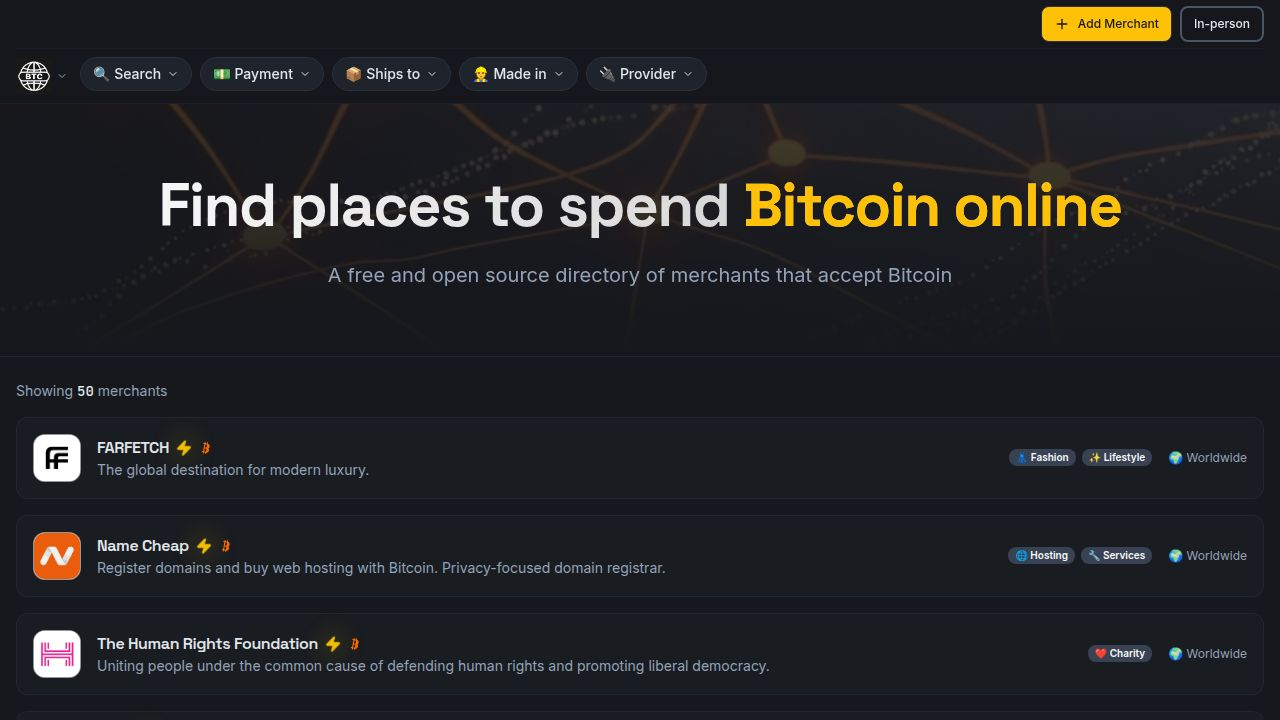
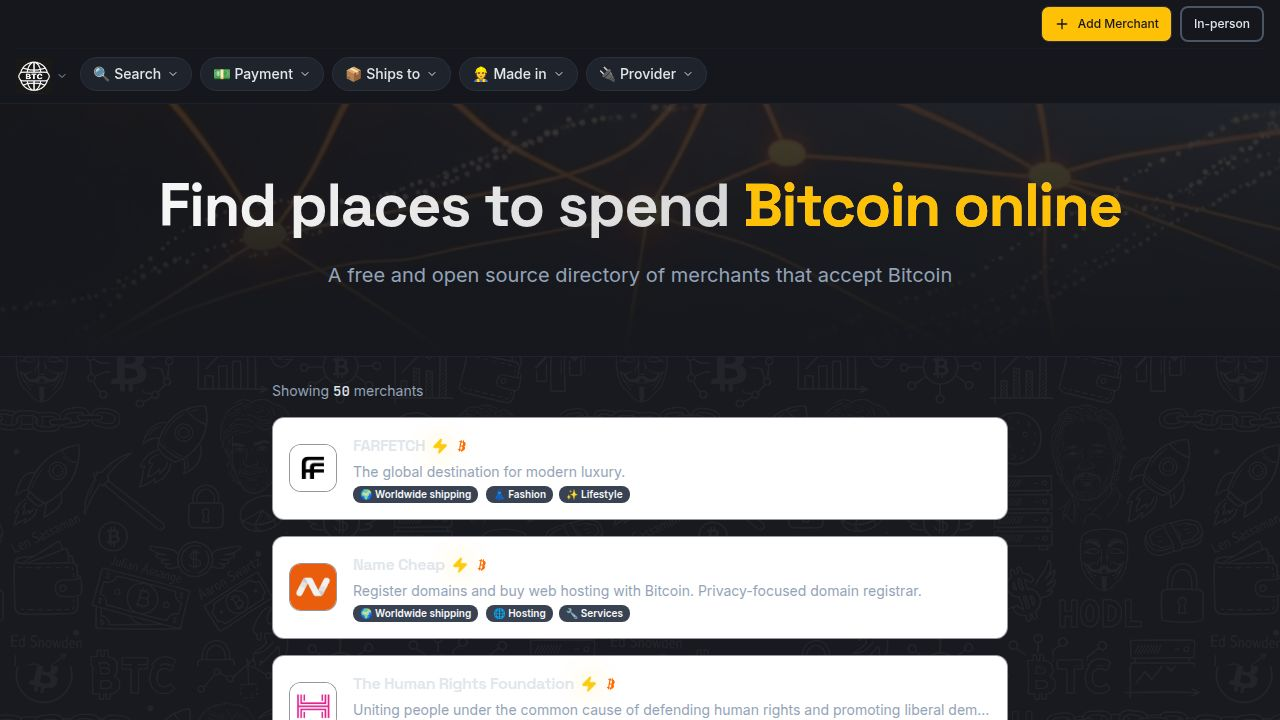
Make the usable area smaller on desktop like remoteok.com
Constrain the main content area to a maximum width of 3xl on desktop, while maintaining the full-width background image.

Replit-Commit-Author: Agent
Replit-Commit-Session-Id: 9fe8f121-51ca-4c76-90ea-bd0d1123d7ac
Replit-Commit-Checkpoint-Type: full_checkpoint
Replit-Commit-Event-Id: c55ac0af-c31d-4982-b462-2917895a7dc4
Replit-Commit-Screenshot-Url: https://storage.googleapis.com/screenshot-production-us-central1/836d56c9-18a9-46ad-9972-6a9fa87541a8/9fe8f121-51ca-4c76-90ea-bd0d1123d7ac/fRX957m
Replit-Helium-Checkpoint-Created: true

diff --git a/client/src/pages/home.tsx b/client/src/pages/home.tsx
@@ -136,39 +136,41 @@ export default function Home() {
         </div>
       </div>
 
-      <main className="container px-4 py-6 flex-1 relative" style={{ backgroundImage: `url(${btcBgImage})`, backgroundSize: '600px', backgroundRepeat: 'repeat', backgroundPosition: 'center' }}>
+      <main className="flex-1 relative" style={{ backgroundImage: `url(${btcBgImage})`, backgroundSize: '600px', backgroundRepeat: 'repeat', backgroundPosition: 'center' }}>
         <div className="absolute inset-0 bg-background/90 dark:bg-background/95" />
-        <div className="relative z-10 mb-4 flex items-center justify-between">
-          <p className="text-sm text-muted-foreground">
-            Showing <span className="font-mono text-foreground font-medium">{filteredMerchants.length}</span> merchants
-          </p>
-        </div>
+        <div className="relative z-10 max-w-3xl mx-auto px-4 py-6">
+          <div className="mb-4 flex items-center justify-between">
+            <p className="text-sm text-muted-foreground">
+              Showing <span className="font-mono text-foreground font-medium">{filteredMerchants.length}</span> merchants
+            </p>
+          </div>
 
-        {loading ? (
-          <div className="relative z-10 text-center py-20">
-            <p className="text-muted-foreground text-lg">Loading merchants...</p>
-          </div>
-        ) : filteredMerchants.length > 0 ? (
-          <div className="relative z-10 flex flex-col gap-4">
-            {filteredMerchants.map((merchant, index) => (
-              <motion.div
-                key={merchant.id}
-                initial={{ opacity: 0, y: 10 }}
-                animate={{ opacity: 1, y: 0 }}
-                transition={{ duration: 0.3, delay: index * 0.05 }}
-              >
-                <MerchantCard merchant={merchant} />
-              </motion.div>
-            ))}
-          </div>
-        ) : (
-          <div className="relative z-10 text-center py-20 border border-dashed border-border rounded-lg bg-card/20">
-            <p className="text-muted-foreground text-lg">No merchants found.</p>
-            <button onClick={clearFilters} className="mt-4 text-primary hover:underline">
-              Clear all filters
-            </button>
-          </div>
-        )}
+          {loading ? (
+            <div className="text-center py-20">
+              <p className="text-muted-foreground text-lg">Loading merchants...</p>
+            </div>
+          ) : filteredMerchants.length > 0 ? (
+            <div className="flex flex-col gap-4">
+              {filteredMerchants.map((merchant, index) => (
+                <motion.div
+                  key={merchant.id}
+                  initial={{ opacity: 0, y: 10 }}
+                  animate={{ opacity: 1, y: 0 }}
+                  transition={{ duration: 0.3, delay: index * 0.05 }}
+                >
+                  <MerchantCard merchant={merchant} />
+                </motion.div>
+              ))}
+            </div>
+          ) : (
+            <div className="text-center py-20 border border-dashed border-border rounded-lg bg-card/20">
+              <p className="text-muted-foreground text-lg">No merchants found.</p>
+              <button onClick={clearFilters} className="mt-4 text-primary hover:underline">
+                Clear all filters
+              </button>
+            </div>
+          )}
+        </div>
       </main>
 
       <footer className="border-t border-border/40 py-8 bg-background mt-auto">
